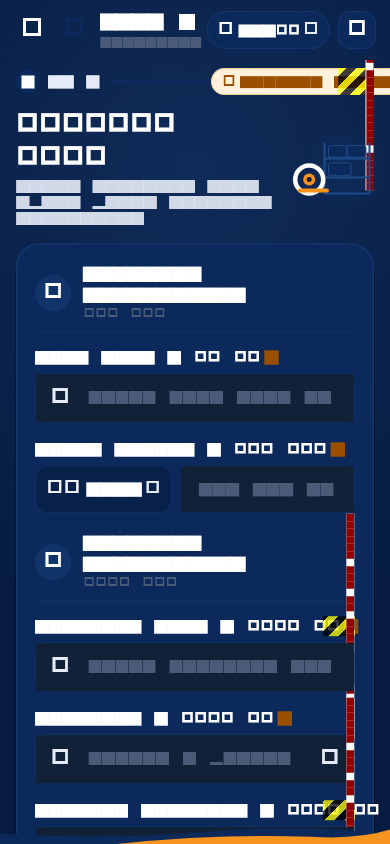
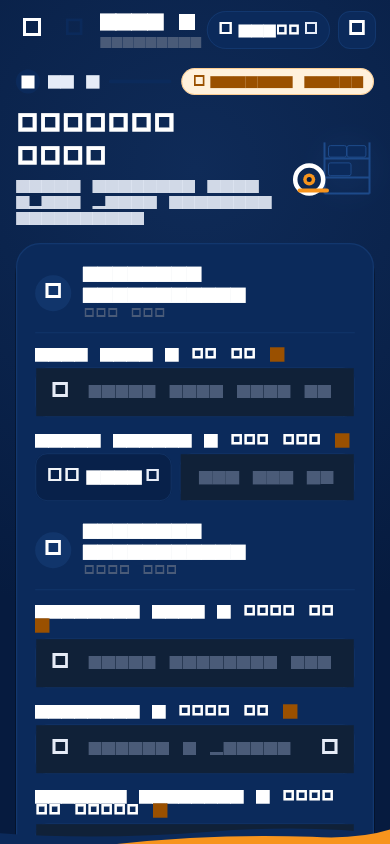
update

diff --git a/lib/features/auth/presentation/screens/register_screen.dart b/lib/features/auth/presentation/screens/register_screen.dart
@@ -878,29 +878,28 @@ class _RegisterScreenState extends ConsumerState<RegisterScreen> {
   }) {
     final isDark = context.isDark;
 
-    return Row(
-      children: [
-        Text(
-          label,
-          style: TextStyle(
-            fontFamily: KeraTypography.fontLatin,
-            fontSize: 13,
-            fontWeight: FontWeight.w700,
-            color: isDark ? Colors.white : KeraColors.navy900,
-          ),
+    return RichText(
+      text: TextSpan(
+        text: label,
+        style: TextStyle(
+          fontFamily: KeraTypography.fontLatin,
+          fontSize: 13,
+          fontWeight: FontWeight.w700,
+          color: isDark ? Colors.white : KeraColors.navy900,
         ),
-        if (isRequired) ...[
-          const SizedBox(width: 4),
-          const Text(
-            '*',
-            style: TextStyle(
-              fontSize: 14,
-              fontWeight: FontWeight.w800,
-              color: KeraColors.orange700,
-            ),
-          ),
-        ],
-      ],
+        children: isRequired
+            ? const [
+                TextSpan(
+                  text: ' *',
+                  style: TextStyle(
+                    fontSize: 14,
+                    fontWeight: FontWeight.w800,
+                    color: KeraColors.orange700,
+                  ),
+                ),
+              ]
+            : null,
+      ),
     );
   }
 
